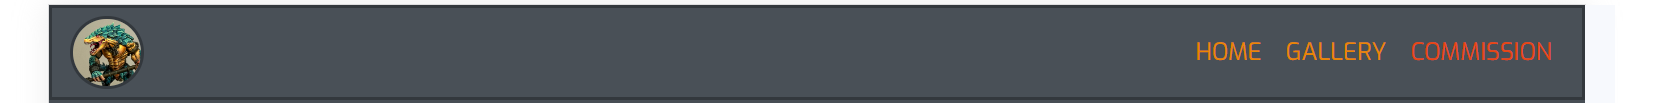
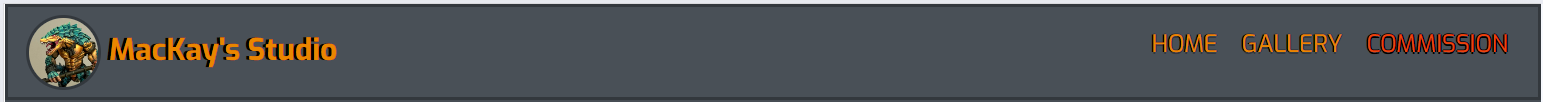
added title to navbar

Changed region(s): [[0.0, 0.0294, 1.0, 1.0]]

diff --git a/commission.html b/commission.html
@@ -16,7 +16,8 @@
         <nav class="navbar nav-justified fixed-top navbar-expand-md bg-body-tertiary">
             <div class="container-fluid">
                 <a class="navbar-brand" href="index.html">
-                    <img src="assets/images/logo.jpg" alt="Logo" width="50" height="50">
+                    <img src="assets/images/logo.jpg" alt="Logo" width="50" height="50"
+                        class="d-inline-block align-text-center logo-large"> MacKay's Studio
                 </a>
                 <button class="navbar-toggler custom-toggler" type="button" data-bs-toggle="collapse"
                     data-bs-target="#navbarNav" aria-controls="navbarNav" aria-expanded="false"
@@ -94,7 +95,8 @@
         <div id="footer-margin">
             <div class="row list-inline social-links">
                 <div class="col list-inline-item social-links">
-                    <a href="https://www.facebook.com/" title="Link to Mackay's Painting Corner's Facebook" target="_blank">
+                    <a href="https://www.facebook.com/" title="Link to Mackay's Painting Corner's Facebook"
+                        target="_blank">
                         <i class="fa fa-facebook" aria-hidden="true"></i>
                         <span class="sr-only">Facebook</span>
                     </a>
@@ -106,13 +108,15 @@
                     </a>
                 </div>
                 <div class="col list-inline-item social-links">
-                    <a href="https://www.instagram.com/" title="Link to Mackay's Painting Corner's Instagram" target="_blank">
+                    <a href="https://www.instagram.com/" title="Link to Mackay's Painting Corner's Instagram"
+                        target="_blank">
                         <i class="fa fa-instagram" aria-hidden="true"></i>
                         <span class="sr-only">Instagram</span>
                     </a>
                 </div>
                 <div class="col list-inline-item social-links">
-                    <a href="https://www.youtube.com/" title="Link to Mackay's Painting Corner's Youtube" target="_blank">
+                    <a href="https://www.youtube.com/" title="Link to Mackay's Painting Corner's Youtube"
+                        target="_blank">
                         <i class="fa fa-youtube" aria-hidden="true"></i>
                         <span class="sr-only">Youtube</span>
                     </a>
@@ -129,6 +133,7 @@
     <script src="https://kit.fontawesome.com/de7045e1f7.js" crossorigin="anonymous"></script>
     <script src="https://cdn.jsdelivr.net/npm/bootstrap@5.3.2/dist/js/bootstrap.bundle.min.js"
         integrity="sha384-C6RzsynM9kWDrMNeT87bh95OGNyZPhcTNXj1NW7RuBCsyN/o0jlpcV8Qyq46cDfL"
-        crossorigin="anonymous"></script>    
+        crossorigin="anonymous"></script>
 </body>
+
 </html>

diff --git a/index.html b/index.html
@@ -16,7 +16,8 @@
         <nav class="navbar nav-justified fixed-top navbar-expand-md bg-body-tertiary">
             <div class="container-fluid">
                 <a class="navbar-brand" href="index.html">
-                    <img id="logo" src="assets/images/logo.jpg" alt="Logo" width="50" height="50">
+                    <img src="assets/images/logo.jpg" alt="Logo" width="50" height="50"
+                        class="d-inline-block align-text-center logo-large"> MacKay's Studio
                 </a>
                 <button class="navbar-toggler custom-toggler" type="button" data-bs-toggle="collapse"
                     data-bs-target="#navbarNav" aria-controls="navbarNav" aria-expanded="false"

diff --git a/gallery.html b/gallery.html
@@ -16,7 +16,8 @@
         <nav class="navbar nav-justified fixed-top navbar-expand-md bg-body-tertiary">
             <div class="container-fluid">
                 <a class="navbar-brand" href="index.html">
-                    <img src="assets/images/logo.jpg" alt="Logo" width="50" height="50">
+                    <img src="assets/images/logo.jpg" alt="Logo" width="50" height="50"
+                        class="d-inline-block align-text-center logo-large"> MacKay's Studio
                 </a>
                 <button class="navbar-toggler custom-toggler" type="button" data-bs-toggle="collapse"
                     data-bs-target="#navbarNav" aria-controls="navbarNav" aria-expanded="false"

diff --git a/thankyou.html b/thankyou.html
@@ -16,7 +16,8 @@
         <nav class="navbar nav-justified fixed-top navbar-expand-md bg-body-tertiary">
             <div class="container-fluid">
                 <a class="navbar-brand" href="index.html">
-                    <img src="assets/images/logo.jpg" alt="Logo" width="50" height="50">
+                    <img src="assets/images/logo.jpg" alt="Logo" width="50" height="50"
+                        class="d-inline-block align-text-center logo-large"> MacKay's Studio
                 </a>
                 <button class="navbar-toggler custom-toggler" type="button" data-bs-toggle="collapse"
                     data-bs-target="#navbarNav" aria-controls="navbarNav" aria-expanded="false"

diff --git a/assets/css/style.css b/assets/css/style.css
@@ -102,7 +102,25 @@ button:focus:not(:focus-visible) {
   color: #e98600;
 }
 
+.navbar-brand {
+  color: #e98600;
+  text-shadow: -2px 0 black, 0 0px black, 0 0 black, 0 0 black;
+}
+
+.navbar-brand:hover {
+  color: #e84610;
+}
 /* ----------------------------------------------------------------------- Nav Bar */
+
+.navbar-brand {
+  font-size: 20px;
+}
+
+@media (max-width: 306px) {
+.navbar-brand {
+  font-size: 16px;
+}
+}
 
 .nav-align {
   justify-content: flex-end;
